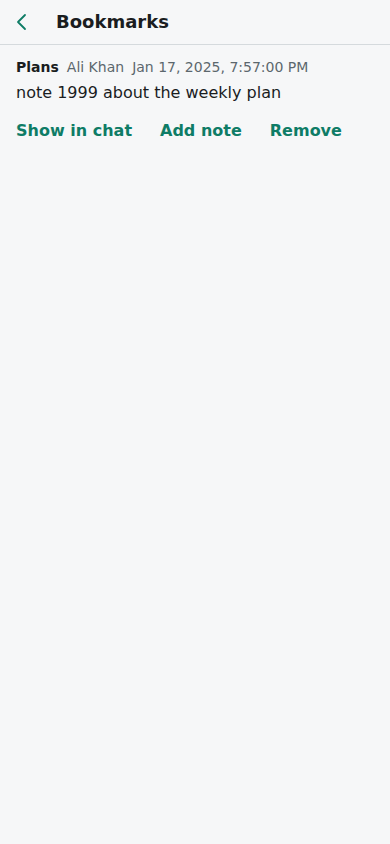
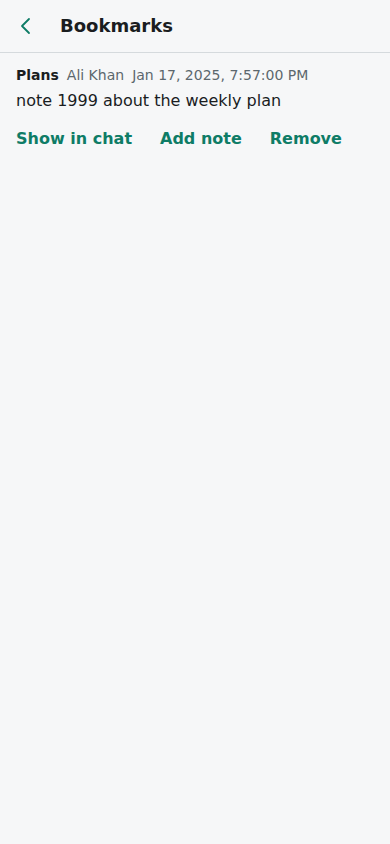
docs: refresh M5 screenshots and note the safe-area fix

Changed region(s): [[0.0308, 0.0, 0.8923, 0.1848], [0.0308, 0.0, 0.0615, 0.0308]]

diff --git a/docs/STATUS.md b/docs/STATUS.md
@@ -42,6 +42,12 @@ M4 — Chat list and chat view: merged (PR #7).
   jump-to-date buttons in the chat header (disabled for an empty chat).
 - New `highlight` colour token for matches and the jumped-to row, AA
   checked against text in both themes.
+- Fix carried from earlier milestones: `.safe-area` was an unlayered rule,
+  so it silently replaced every Tailwind padding utility on the same
+  element (and padded headers with the home-indicator inset). The insets
+  are now layered utilities on outer boxes, with spacing on inner boxes;
+  the chat list, chat view, search and bookmarks screens take the side and
+  home-indicator insets.
 - E2E (Chromium): flow 6 (global search → open hit → highlighted in
   view), flow 7 (in-chat previous/next, jump to date, jump to latest,
   first message), flow 10 (bookmark, edit note, bookmarks screen, show in
